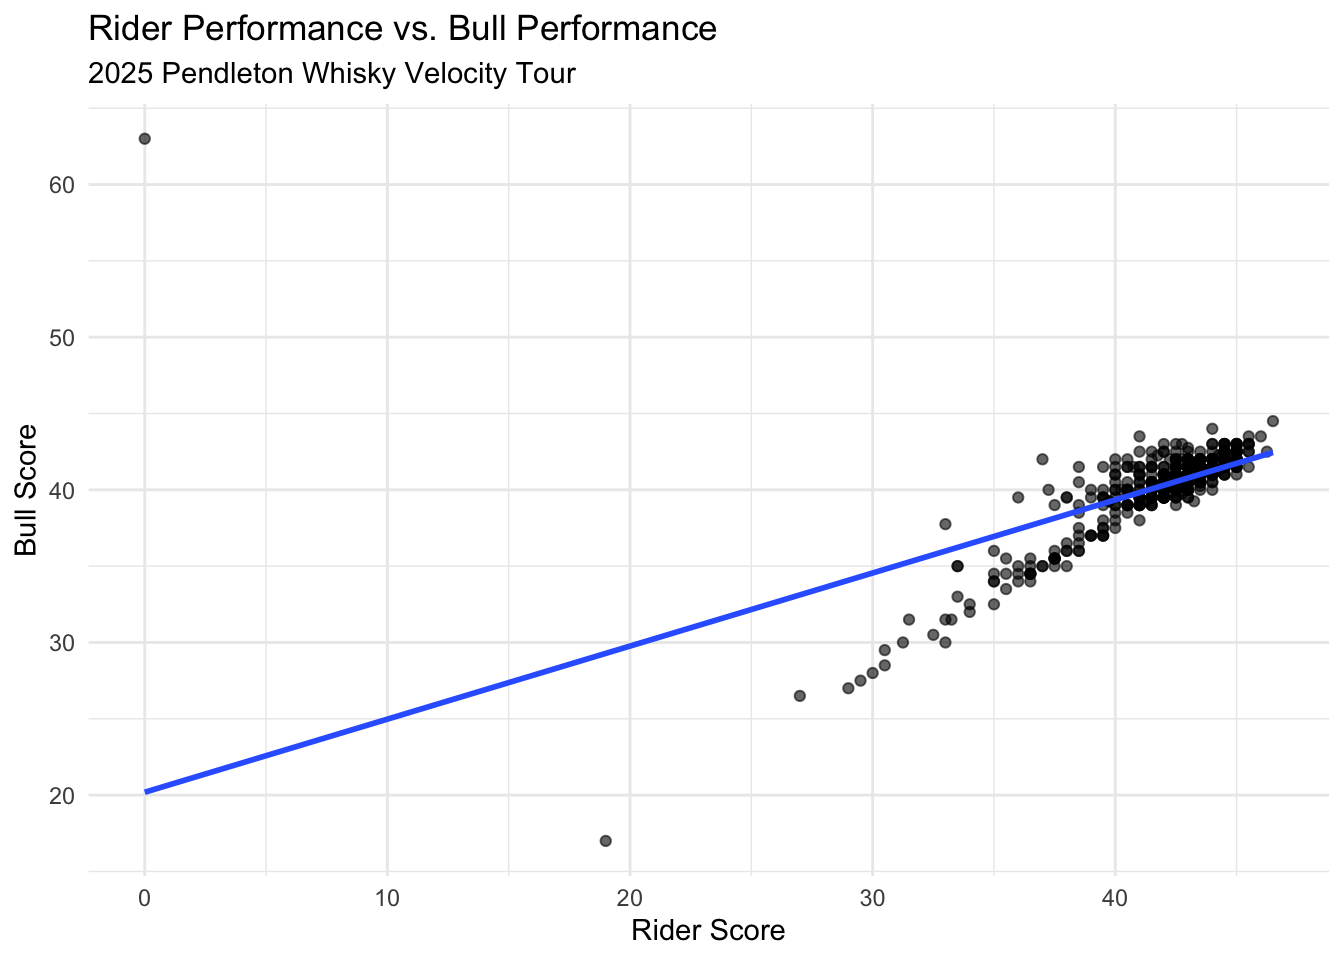
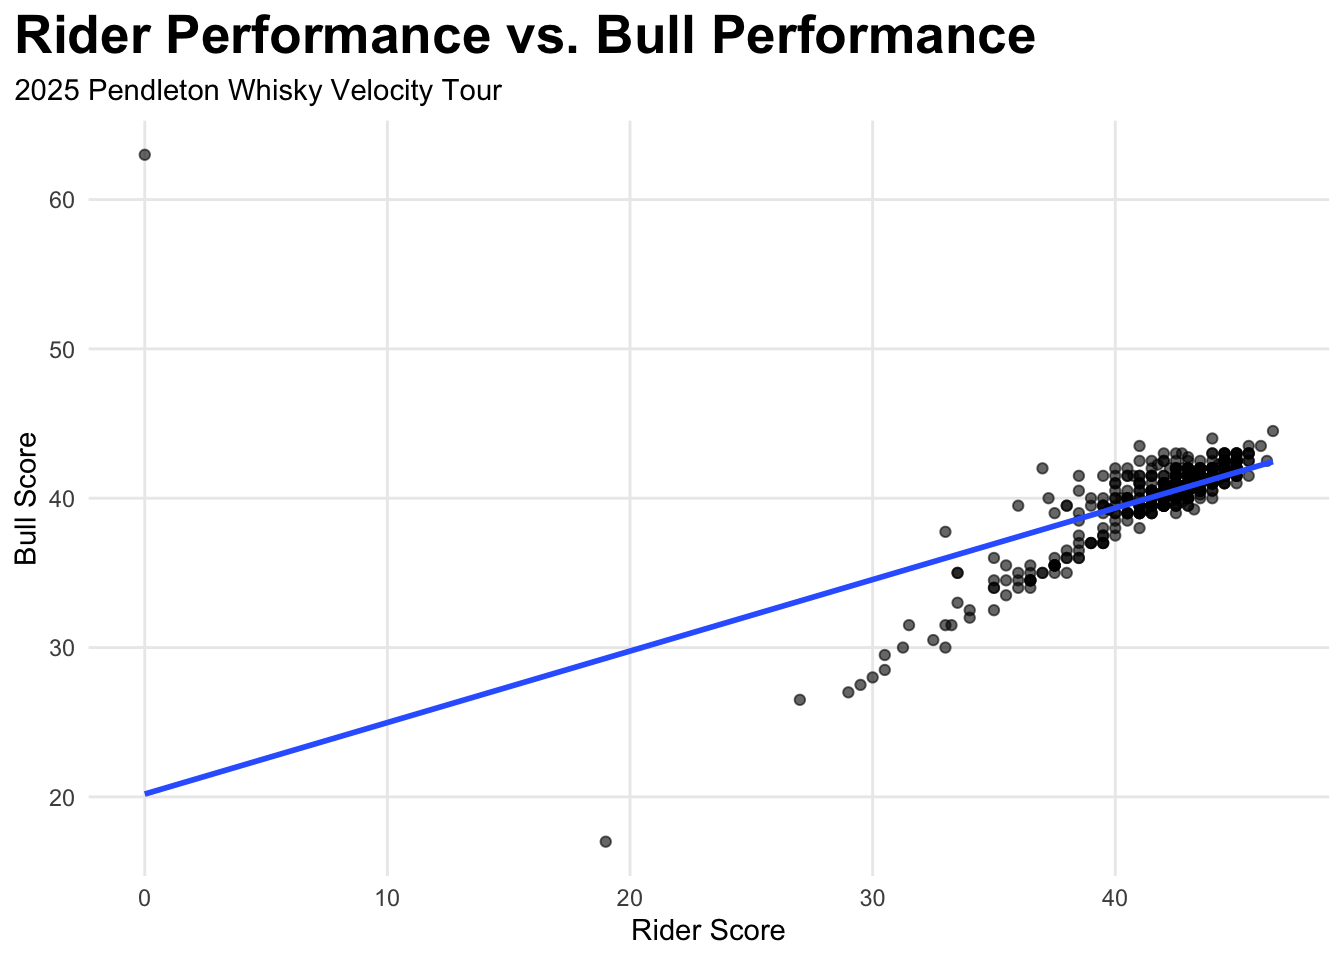
updates

diff --git a/posts/pbr-bull-riding-rodeo-cowboy/index.html b/posts/pbr-bull-riding-rodeo-cowboy/index.html
@@ -456,7 +456,10 @@ dbl (3): Rider_Score, Bull_Score, Total_Score
 <span id="cb9-7"><a href="#cb9-7" aria-hidden="true" tabindex="-1"></a>    <span class="at">x =</span> <span class="st">"Rider Score"</span>,</span>
 <span id="cb9-8"><a href="#cb9-8" aria-hidden="true" tabindex="-1"></a>    <span class="at">y =</span> <span class="st">"Bull Score"</span></span>
 <span id="cb9-9"><a href="#cb9-9" aria-hidden="true" tabindex="-1"></a>  ) <span class="sc">+</span></span>
-<span id="cb9-10"><a href="#cb9-10" aria-hidden="true" tabindex="-1"></a>  <span class="fu">theme_minimal</span>()</span></code></pre></div><button title="Copy to Clipboard" class="code-copy-button"><i class="bi"></i></button></div>
+<span id="cb9-10"><a href="#cb9-10" aria-hidden="true" tabindex="-1"></a>  <span class="fu">theme_minimal</span>() <span class="sc">+</span></span>
+<span id="cb9-11"><a href="#cb9-11" aria-hidden="true" tabindex="-1"></a>  <span class="fu">theme</span>(</span>
+<span id="cb9-12"><a href="#cb9-12" aria-hidden="true" tabindex="-1"></a>    <span class="at">plot.title =</span> <span class="fu">element_text</span>(<span class="at">size =</span> <span class="dv">20</span>, <span class="at">face =</span> <span class="st">"bold"</span>), <span class="at">panel.grid.minor =</span> <span class="fu">element_blank</span>(), <span class="at">plot.title.position =</span> <span class="st">"plot"</span></span>
+<span id="cb9-13"><a href="#cb9-13" aria-hidden="true" tabindex="-1"></a>  )</span></code></pre></div><button title="Copy to Clipboard" class="code-copy-button"><i class="bi"></i></button></div>
 </details>
 <div class="cell-output cell-output-stderr">
 <pre><code>`geom_smooth()` using formula = 'y ~ x'</code></pre>
@@ -493,7 +496,10 @@ dbl (3): Rider_Score, Bull_Score, Total_Score
 <span id="cb11-17"><a href="#cb11-17" aria-hidden="true" tabindex="-1"></a>    <span class="at">x =</span> <span class="st">""</span>,</span>
 <span id="cb11-18"><a href="#cb11-18" aria-hidden="true" tabindex="-1"></a>    <span class="at">y =</span> <span class="st">"Average Score"</span></span>
 <span id="cb11-19"><a href="#cb11-19" aria-hidden="true" tabindex="-1"></a>  ) <span class="sc">+</span></span>
-<span id="cb11-20"><a href="#cb11-20" aria-hidden="true" tabindex="-1"></a>  <span class="fu">theme_minimal</span>() </span></code></pre></div><button title="Copy to Clipboard" class="code-copy-button"><i class="bi"></i></button></div>
+<span id="cb11-20"><a href="#cb11-20" aria-hidden="true" tabindex="-1"></a>  <span class="fu">theme_minimal</span>() <span class="sc">+</span></span>
+<span id="cb11-21"><a href="#cb11-21" aria-hidden="true" tabindex="-1"></a>  <span class="fu">theme</span>(</span>
+<span id="cb11-22"><a href="#cb11-22" aria-hidden="true" tabindex="-1"></a>    <span class="at">plot.title =</span> <span class="fu">element_text</span>(<span class="at">size =</span> <span class="dv">20</span>, <span class="at">face =</span> <span class="st">"bold"</span>), <span class="at">plot.title.position =</span> <span class="st">"plot"</span></span>
+<span id="cb11-23"><a href="#cb11-23" aria-hidden="true" tabindex="-1"></a>  )</span></code></pre></div><button title="Copy to Clipboard" class="code-copy-button"><i class="bi"></i></button></div>
 </details>
 <div class="cell-output-display">
 <div>
@@ -534,7 +540,10 @@ dbl (3): Rider_Score, Bull_Score, Total_Score
 <span id="cb12-19"><a href="#cb12-19" aria-hidden="true" tabindex="-1"></a>    <span class="at">x =</span> <span class="st">"Rider"</span>,</span>
 <span id="cb12-20"><a href="#cb12-20" aria-hidden="true" tabindex="-1"></a>    <span class="at">y =</span> <span class="st">"Average Rider Score"</span></span>
 <span id="cb12-21"><a href="#cb12-21" aria-hidden="true" tabindex="-1"></a>  ) <span class="sc">+</span></span>
-<span id="cb12-22"><a href="#cb12-22" aria-hidden="true" tabindex="-1"></a>  <span class="fu">theme_minimal</span>()</span></code></pre></div><button title="Copy to Clipboard" class="code-copy-button"><i class="bi"></i></button></div>
+<span id="cb12-22"><a href="#cb12-22" aria-hidden="true" tabindex="-1"></a>  <span class="fu">theme_minimal</span>() <span class="sc">+</span></span>
+<span id="cb12-23"><a href="#cb12-23" aria-hidden="true" tabindex="-1"></a>  <span class="fu">theme</span>(</span>
+<span id="cb12-24"><a href="#cb12-24" aria-hidden="true" tabindex="-1"></a>    <span class="at">plot.title =</span> <span class="fu">element_text</span>(<span class="at">size =</span> <span class="dv">20</span>, <span class="at">face =</span> <span class="st">"bold"</span>), <span class="at">plot.title.position =</span> <span class="st">"plot"</span></span>
+<span id="cb12-25"><a href="#cb12-25" aria-hidden="true" tabindex="-1"></a>  )</span></code></pre></div><button title="Copy to Clipboard" class="code-copy-button"><i class="bi"></i></button></div>
 </details>
 <div class="cell-output-display">
 <div>

diff --git a/index.html b/index.html
@@ -379,7 +379,7 @@ window.Quarto = {
 
 <div class="quarto-listing quarto-listing-container-default" id="listing-listing">
 <div class="list quarto-listing-default">
-<div class="quarto-post image-right" data-index="0" data-categories="YnVsbHJpZGluZyUyQ2J1bGxzJTJDcmlkZXJz" data-listing-date-sort="1794549600000" data-listing-file-modified-sort="1794932225217" data-listing-date-modified-sort="NaN" data-listing-reading-time-sort="4" data-listing-word-count-sort="613">
+<div class="quarto-post image-right" data-index="0" data-categories="YnVsbHJpZGluZyUyQ2J1bGxzJTJDcmlkZXJz" data-listing-date-sort="1794549600000" data-listing-file-modified-sort="1794940304776" data-listing-date-modified-sort="NaN" data-listing-reading-time-sort="4" data-listing-word-count-sort="672">
 <div class="thumbnail"><a href="./posts/pbr-bull-riding-rodeo-cowboy/index.html" class="no-external-icon">
 
 <p class="card-img-top"><img loading='lazy' src="posts/pbr-bull-riding-rodeo-cowboy/index_files/figure-html/unnamed-chunk-1-1.png"  class="thumbnail-image card-img"/></p>
